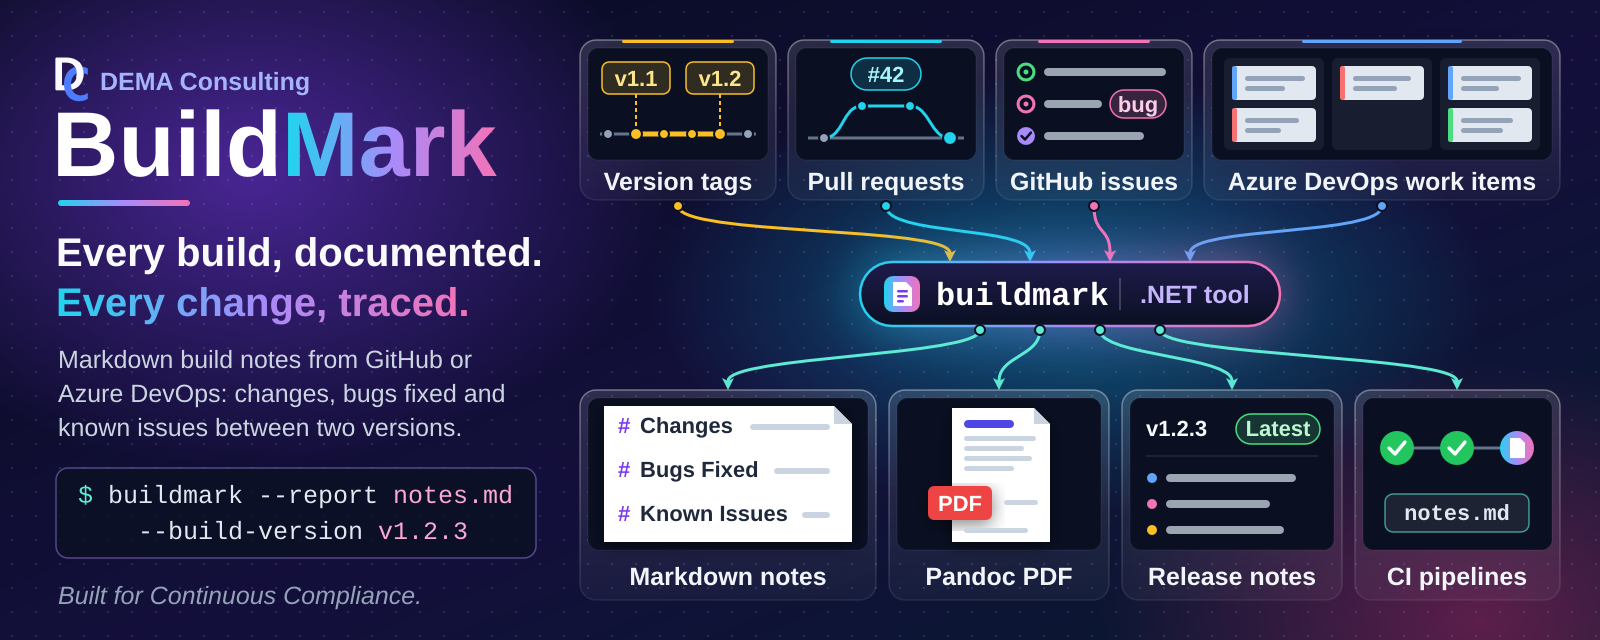
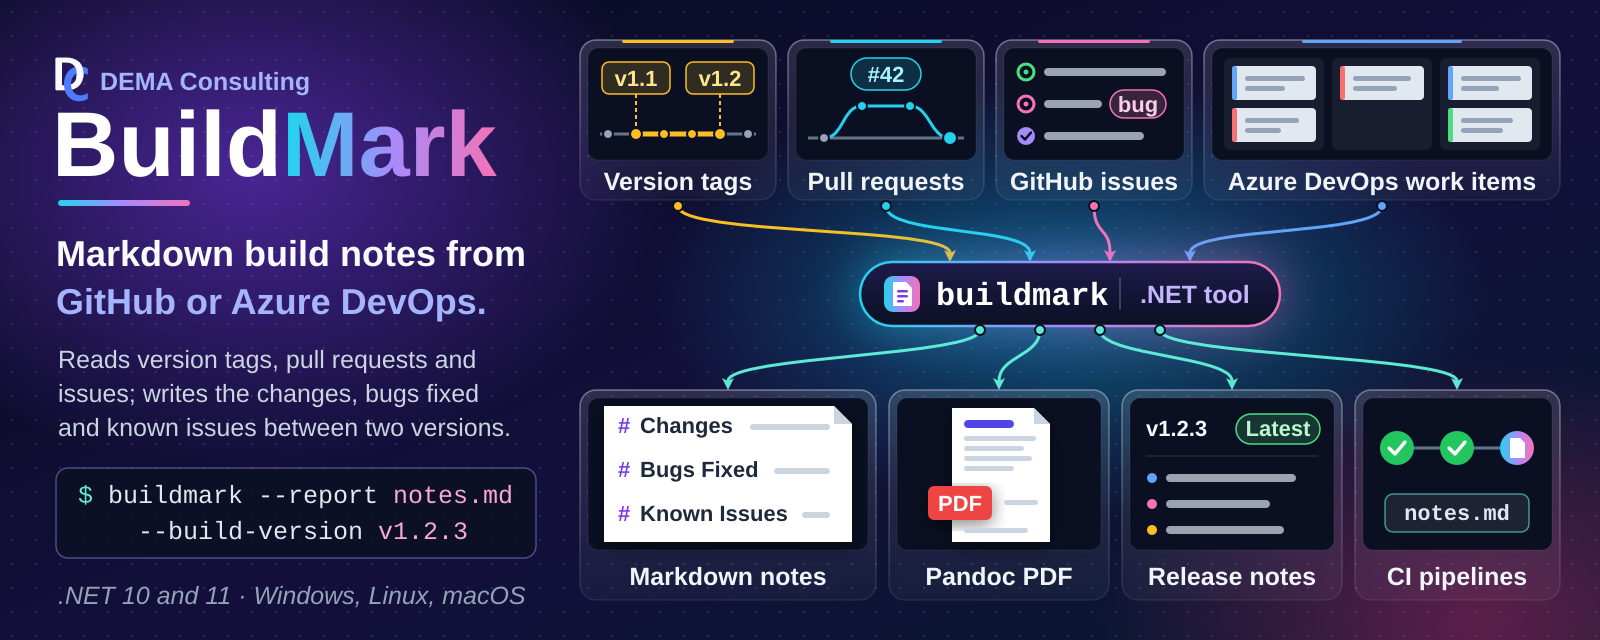
README hero: plain tagline, calmer text, hero first (#246)
Replace the left-side slogans with a factual tagline and body, drop the
gradient from the tagline (gradient kept on the 'Mark' wordmark only),
and make the hero image the README H1.

Changed region(s): [[0.0312, 0.5312, 0.3125, 0.6875], [0.0312, 0.375, 0.3438, 0.5], [0.0312, 0.9062, 0.3438, 0.9688]]

diff --git a/README.md b/README.md
@@ -1,4 +1,4 @@
-# BuildMark
+# ![BuildMark: Markdown build notes from GitHub or Azure DevOps. Reads version tags, pull requests and issues; writes the changes, bugs fixed and known issues between two versions. Shown with the command 'buildmark --report notes.md --build-version v1.2.3' and the note '.NET 10 and 11, Windows, Linux, macOS'. Version tags, pull requests, GitHub issues, and Azure DevOps work items flow into the buildmark .NET tool, and arrows lead out to Markdown build notes with Changes, Bugs Fixed, and Known Issues sections, a Pandoc PDF, release notes, and a CI pipeline artifact][hero]
 
 [![GitHub forks](https://img.shields.io/github/forks/demaconsulting/BuildMark?style=plastic)](https://github.com/demaconsulting/BuildMark/network/members)
 [![GitHub stars](https://img.shields.io/github/stars/demaconsulting/BuildMark?style=plastic)](https://github.com/demaconsulting/BuildMark/stargazers)
@@ -8,8 +8,6 @@
 [![Quality Gate](https://sonarcloud.io/api/project_badges/measure?project=demaconsulting_BuildMark&metric=alert_status)](https://sonarcloud.io/dashboard?id=demaconsulting_BuildMark)
 [![Security](https://sonarcloud.io/api/project_badges/measure?project=demaconsulting_BuildMark&metric=security_rating)](https://sonarcloud.io/dashboard?id=demaconsulting_BuildMark)
 [![NuGet](https://img.shields.io/nuget/v/DemaConsulting.BuildMark?style=plastic)](https://www.nuget.org/packages/DemaConsulting.BuildMark)
-
-![BuildMark banner: the BuildMark name with the tagline 'Every build, documented. Every change, traced.' and the command 'buildmark --report notes.md --build-version v1.2.3'. Version tags, pull requests, GitHub issues, and Azure DevOps work items flow on curved arrows into the buildmark .NET tool, and arrows lead out to Markdown build notes with Changes, Bugs Fixed, and Known Issues sections, a Pandoc PDF, release notes, and a CI pipeline artifact][hero]
 
 ## Overview
 
